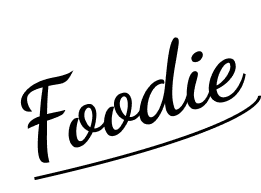
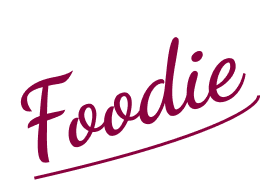
Styling + color changes for auth / welcome view

Changed region(s): [[0.2452, 0.1875, 0.9502, 0.7812], [0.0613, 0.375, 0.2759, 0.875], [0.1226, 0.4688, 1.0, 0.9375]]

diff --git a/components/modals/homeModal.tsx b/components/modals/homeModal.tsx
@@ -5,12 +5,17 @@ import { useSession } from "next-auth/react"
 import { useRouter } from "next/router"
 
 type recepieProps = {
+  title?: string
+  image?: string
+  time?: string
   id?: string
-  name?: string
-  profileImage?: string
-  recepies?: [{ title: string; image: string; time: string; id: string }]
-}
 
+  author?: {
+    name: string
+    profileImage: string
+    id: string
+  }
+}
 const RenderOutRecepiesModals: NextPage<recepieProps> = ({}) => {
   const [data, setData] = useState<recepieProps[]>([])
 
@@ -35,31 +40,36 @@ const RenderOutRecepiesModals: NextPage<recepieProps> = ({}) => {
       <div className="">
         {data.map((item) => (
           <div className=" mt-5 grid grid-cols-1 md:grid-cols-2 lg:grid-cols-3 gap-6 m-4">
-            {item.recepies?.map((items) => (
-              <div
-                className="bg-primaryPink rounded-lg cursor-pointer"
-                onClick={() => handleClick(items.id)}
-              >
-                <img
-                  src={items.image}
-                  alt="image"
-                  width={551}
-                  height={100}
-                  className="object-cover rounded-lg w-100 h-96"
-                />
-                <p className="font-title font-bold text-2xl">{items.title}</p>
-                <div className="flex  items-center">
-                  <div className="h-4 w-4 bg-red-800 rounded-full"></div>
-                  <p className="pl-4 font-sans text-1xl">{item.name}</p>
-                </div>
-                <div className="flex  items-center">
-                  <div>
-                    <img src="/klocka.png" alt="klocka" />
-                  </div>
-                  <p className="pl-4 font-sans text-1xl"> {items.time}</p>
-                </div>
+            <div
+              className="bg-primaryPink rounded-lg"
+              onClick={() => handleClick(item.id)}
+            >
+              <img
+                src={item.image}
+                alt="image"
+                width={550}
+                height={100}
+                className="object-cover rounded-lg w-100 h-60"
+              />
+              <p className="font-title font-medium text-2xl pl-2 pt-2 ">
+                {item.title}
+              </p>
+              <div className=" pl-2 pt-1 flex  items-center">
+                <div className="h-4 w-4 bg-primaryRed rounded-full"></div>
+                <p className="pl-4 font-sans text-1xl font-medium">
+                  {item.author?.name}
+                </p>
               </div>
-            ))}
+              <div className=" pl-2 pt-1 pb-2 flex  items-center">
+                <div>
+                  <img src="/klocka.png" alt="klocka" />
+                </div>
+                <p className="pl-4 font-sans font-medium text-1xl">
+                  {" "}
+                  {item.time} min
+                </p>
+              </div>
+            </div>
           </div>
         ))}
       </div>

diff --git a/components/hero-components/hero.tsx b/components/hero-components/hero.tsx
@@ -20,54 +20,23 @@ export const Hero = ({
 }: HeroProps) => {
   return (
     <div className="">
-      <div className="absolute bottom-0 -z-20">
-        <Image
-          src={"/tre_sparrisar.40.png"}
-          width={250}
-          height={250}
-          alt="picture of vegatables"
-        ></Image>
-      </div>
-      <div>
-        <h1 className="text-center pt-6 pb-3 text-3xl font-title font-bold">
+      <div className="absolute bottom-0 -z-20"></div>
+      <div className="mx-5 pt-10 pb-4">
+        <h1 className="text-center text-3xl font-title font-bold ">
           {heroTitle}
         </h1>
       </div>
-      <div className="flex justify-center px-2">
-        <p className="text-center font-normal text-xl w-6/6">{heroText}</p>
+      <div className="flex justify-center px-2  mx-2">
+        <p className="text-center font-normal text-lg w-6/6">{heroText}</p>
       </div>
-      <div className="">
-        <ul className=" font-semibold text-xl pb-10 pt-10">
-          <li className=" list-none flex items-center space-x-3 pt-5 pl-8 pr-8">
-            <Image
-              src={"/icon1_publicera.png"}
-              width={30}
-              height={30}
-              alt="picture of vegatables"
-            ></Image>
-            <span>{bulletOne}</span>
-          </li>
-          <li className=" list-none flex items-center space-x-3 pt-10 pl-8 pr-8">
-            <Image
-              src={"/icon2_uppskattning.png"}
-              width={30}
-              height={30}
-              alt="picture of vegatables"
-            ></Image>
-            <span>{bulletTwo}</span>
-          </li>
-          <li className="list-none flex items-center space-x-3 pt-10 pl-8 pr-8">
-            <Image
-              src={"/icon3_smaker.png"}
-              width={30}
-              height={30}
-              alt="picture of vegatables"
-            ></Image>
-            <span>{bulletThree}</span>
-          </li>
+      <div className=" pl-3 pt-9">
+        <ul className="list-disc pl-10 space-y-3 text-lg">
+          <li>{bulletOne}</li>
+          <li>{bulletTwo}</li>
+          <li>{bulletThree}</li>
         </ul>
       </div>
-      <div className="absolute bottom-24 right-0 -z-10">
+      <div className="absolute bottom-32 right-0 -z-10">
         <Image
           src={"/Sparris_tallrik.png"}
           width={200}
@@ -75,9 +44,9 @@ export const Hero = ({
           alt="picture of vegatables"
         ></Image>
       </div>
-      <div className="flex justify-center h-40 items-end pb-0 sm:h-64 md:h-60 xs:h-48">
+      <div className="flex justify-center items-end pb-0 h-72">
         <Link
-          className="font-semibold text-lg cursor-pointer bg-secondaryWhite px-7 py-4 rounded-3xl"
+          className="font-semibold text-md cursor-pointer bg-crimsonRed text-white px-7 py-4 rounded-full shadow-md shadow-black/25"
           href={"/auth"}
         >
           {ctaText}

diff --git a/components/newRecepieComponents/rubrikRecepieFormView.tsx b/components/newRecepieComponents/rubrikRecepieFormView.tsx
@@ -1,8 +1,12 @@
+import { Logo } from "../hero-components/logo"
+
 interface Props {
   onExploreClick: () => void
   onPublishClick: () => void
   exploreDisabled: boolean
   publishDisabled: boolean
+  displayPub: string
+  displayExpl: string
 }
 
 const RubrikRecepieFormView = (props: Props) => {
@@ -10,11 +14,11 @@ const RubrikRecepieFormView = (props: Props) => {
     <div className="">
       {/* bild / exit */}
       <div className="h-[75px] pl-5 pt-8 ">
-        <img src="Logo Foodie Black 1 (1).svg" alt="Foodie.logo" />
+        <Logo foodieLogo={"/Loggo_B&W.png"} height={75} width={100} />
       </div>
       {/* rubrik */}
-      <div className="flex justify-center  space-x-10 text-[30px] mt-14 mb-2">
-        <div className="font-title ">
+      <div className="flex justify-center space-x-10 text-[30px] mt-14 mb-2">
+        <div className="font-title relative">
           <button
             className=""
             //className="border-b-[6px] border-black rounded-[3px]"
@@ -23,17 +27,23 @@ const RubrikRecepieFormView = (props: Props) => {
           >
             Utforska
           </button>
+          <div
+            className={`bg-primaryRed h-[5px] w-full ${props.displayExpl}  bottom-1 rounded-md`}
+          ></div>
         </div>
         <div className="text-[35px]">
           <p>|</p>
         </div>
-        <div className="font-title ">
+        <div className="font-title relative">
           <button
             onClick={props.onPublishClick}
             disabled={props.publishDisabled}
           >
             Publicera
           </button>
+          <div
+            className={`bg-primaryRed h-[5px] w-full  ${props.displayPub}  bottom-1 rounded-md`}
+          ></div>
         </div>
       </div>
     </div>

diff --git a/components/modals/authModal.tsx b/components/modals/authModal.tsx
@@ -49,7 +49,7 @@ const AuthModal = () => {
   }
 
   return (
-    <Layout bg="bg-white">
+    <Layout>
       <NavBar />
       <Heading headingContent="Skapa konto eller logga in" />
       <form onSubmit={action == "login" ? handleSubmit : submitRegistration}>
@@ -85,12 +85,12 @@ const AuthModal = () => {
           <FormButton
             value={action == "register" ? "Skapa konto" : "Logga in"}
             type={"submit"}
-            className="rounded-md  w-full h-12 bg-primaryPink  text-black  font-semibold "
+            className="rounded-full  w-full h-12 bg-crimsonRed text-white shadow-md shadow-black/25  font-semibold "
           />
           <FormButton
             value={action == "register" ? "Logga in" : "Skapa konto"}
             type={"button"}
-            className="rounded-md border-black border-[1px] w-full h-12   text-black  font-semibold"
+            className="rounded-full bg-white shadow-md shadow-black/25 w-full h-12   text-black  font-semibold"
             onClick={() =>
               setAction(action == "register" ? "login" : "register")
             }
@@ -98,7 +98,7 @@ const AuthModal = () => {
           <GoogleButton
             value={"Fortsätt med Google"}
             type={"button"}
-            className="rounded-md w-full h-12   text-black  font-semibold"
+            className="rounded-full bg-white w-full h-12   text-black  font-semibold shadow-md shadow-black/25"
             onClick={() => signIn("google")}
           />
         </div>

diff --git a/pages/home/index.tsx b/pages/home/index.tsx
@@ -11,23 +11,22 @@ interface Props {}
 
 const Index: NextPage<Props> = ({}) => {
   const [action, setAction] = useState("explore")
-  const [background, setBackground] = useState("bg-white")
+
   const { data: session, status } = useSession()
 
   const handleExploreClick = () => {
     setAction("explore")
-    setBackground("bg-anotherpink")
   }
   const handlePublishClick = () => {
     setAction("publish")
-    setBackground("bg-primaryPink")
   }
 
   return (
     <>
-      <Layout bg={background}>
-        <div>Inloggad som {session?.user?.email}</div>
+      <Layout>
         <RubrikRecepieFormView
+          displayExpl={action === "explore" ? "absolute" : "hidden"}
+          displayPub={action === "publish" ? "absolute" : "hidden"}
           onExploreClick={handleExploreClick}
           onPublishClick={handlePublishClick}
           exploreDisabled={action === "explore"}

diff --git a/tailwind.config.js b/tailwind.config.js
@@ -24,17 +24,19 @@ module.exports = {
       "2xl": "1536px",
       // => @media (min-width: 1536px) { ... }
     },
+
     extend: {
       colors: {
         primaryPink: "#F1C6D4",
         secondarypink: "#F6E5EB",
-        anotherpink: "#F5F5F5",
+        anotherpink: "#FCF4F6",
         primaryYellow: "#FFD966",
         primaryGreen: "#AEDF6F",
         secondaryWhite: "#FFFFFF",
         secondaryRed: "#6C2323",
         secondaryBrown: "#453C3C",
         secondaryBlack: "#000",
+        crimsonRed: "#89023E",
       },
       fontFamily: {
         sans: ["var(----font-publicSans)"],

diff --git a/pages/API/nestedFetch.ts b/pages/API/nestedFetch.ts
@@ -12,13 +12,18 @@ export default async function handler(
   }
 
   try {
-    const allRecepies = await prismadb.user.findMany({
+    const allRecepies = await prismadb.recepie.findMany({
+      orderBy: [
+        {
+          createdAt: "desc",
+        },
+      ],
+
       include: {
-        recepies: {
+        author: {
           select: {
-            title: true,
-            image: true,
-            time: true,
+            name: true,
+            profileImage: true,
             id: true,
           },
         },

diff --git a/pages/index.tsx b/pages/index.tsx
@@ -7,7 +7,14 @@ interface Props {}
 const Index: NextPage<Props> = ({}) => {
   return (
     <div className="">
-      <Logo foodieLogo={"/Loggo_B&W.png"} className={"w-52 md:w-80"} />
+      <div className=" flex justify-center ">
+        <Logo
+          height={200}
+          width={200}
+          foodieLogo={"/Loggo_B&W.png"}
+          className={"w-56 md:w-80 "}
+        />
+      </div>
       <Hero
         heroTitle="Dela, smaka och utvecklas!"
         heroText="Foodie skapades av ett gäng matälskare

diff --git a/components/layout.tsx b/components/layout.tsx
@@ -1,15 +1,5 @@
 import { AllHTMLAttributes } from "react"
 
-type background = {
-  bg: string
-}
-
-export const Layout = ({
-  bg,
-  children,
-}: {
-  bg: string
-  children: React.ReactNode
-}) => {
-  return <div className={` min-h-screen w-screen ${bg} `}>{children}</div>
+export const Layout = ({ children }: { children: React.ReactNode }) => {
+  return <div className=" min-h-screen w-screen bg-anotherpink">{children}</div>
 }

diff --git a/components/form-components/form-field.tsx b/components/form-components/form-field.tsx
@@ -26,7 +26,7 @@ export const FormFielld = ({
         </label>
         <div className="w-full h-full flex items-center pt-3 pl-4">
           <input
-            className="  text-black focus:outline-none w-full font-bold text-lg font-sans"
+            className=" bg-transparent text-black focus:outline-none w-full font-bold text-lg font-sans"
             type={type}
             name={htmlFor}
             onChange={onChange}

diff --git a/components/modals/publishRecepie.tsx b/components/modals/publishRecepie.tsx
@@ -262,8 +262,9 @@ const RecepieModule = ({}) => {
 
           <div className=" pt-12">
             <h2 className="  font-title font-bold text-2xl">Kategori</h2>
+            <input type="checkbox" name="test" id="" />
+            <label htmlFor="test">Hi</label>
           </div>
-          <AddfieldForm placeholderProp={"Lägg till taggar"} />
 
           <FormButton
             value={"Skicka"}

diff --git a/components/form-components/google-button.tsx b/components/form-components/google-button.tsx
@@ -15,7 +15,7 @@ export const GoogleButton = ({
   className,
 }: ButtonProps) => {
   return (
-    <div className="mx-6 mt-12 relative shadow-sm shadow-gray-400 rounded-md">
+    <div className="mx-6 mt-12 relative ">
       <button onClick={onClick} name={name} type={type} className={className}>
         <Image
           src={"/google_icon.png"}
